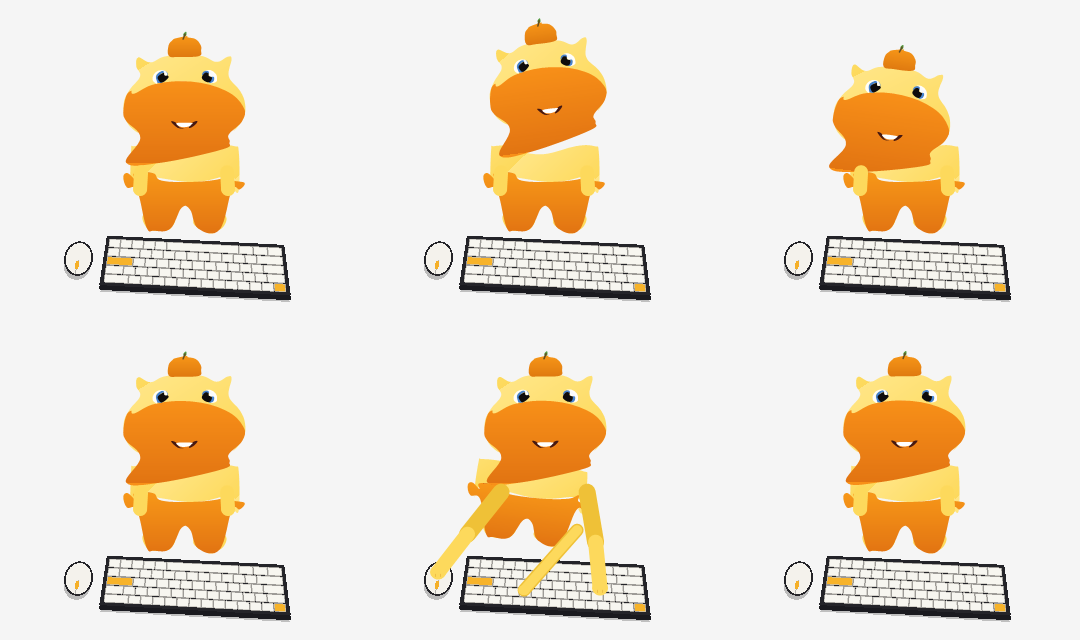
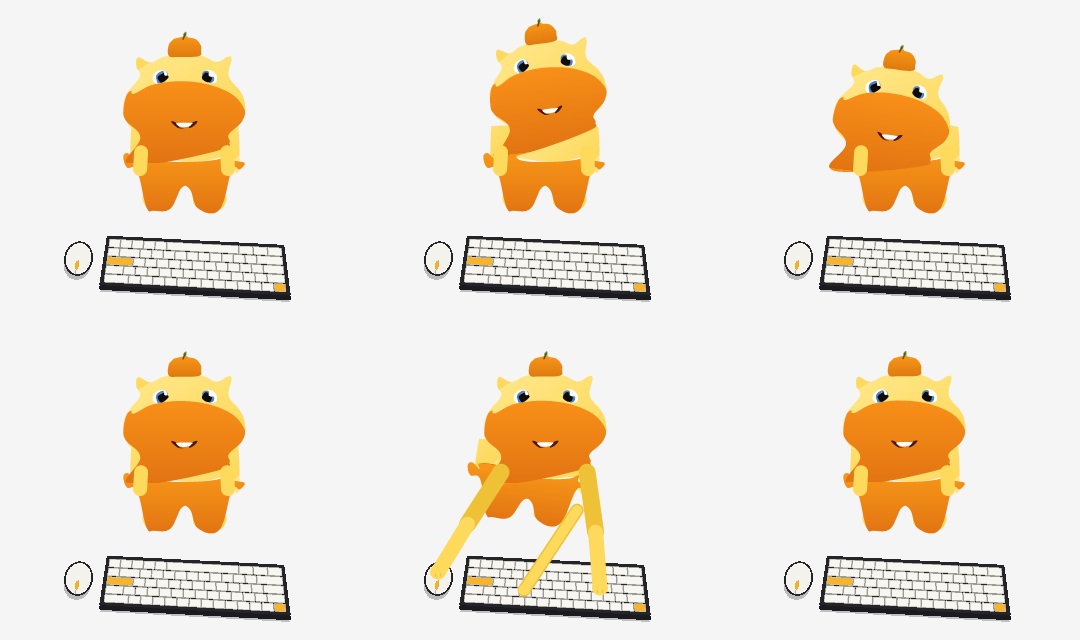
fix(lulu): tuck torso under traced muzzle to remove body gap

diff --git a/windows/src/CapybaraRenderer.hpp b/windows/src/CapybaraRenderer.hpp
@@ -32,7 +32,8 @@ public:
         g.SetPixelOffsetMode(PixelOffsetModeHighQuality);
         g.SetTextRenderingHint(TextRenderingHintAntiAliasGridFit);
         const float cx = CatPhysics::SeatAnchor.x + p.bodyShiftX.value;
-        const float bodyY = 185.0f;
+        // Keep the traced torso tucked behind the lower muzzle; the source has no neck seam.
+        const float bodyY = 165.0f;
         const float breath = std::sin(p.time * 2.1f) * 1.0f;
         const Pt head{cx + p.bodyTilt.value * 8.0f + p.headYaw.value * 2.5f,
                       105.0f + p.headOffsetY.value + p.headPitch.value * 2.0f + breath};
@@ -107,6 +108,7 @@ private:
         g.TranslateTransform(cx - 95.0f, bodyY - 157.0f);
         g.RotateTransform(p.bodyTilt.value * RadToDeg);
         g.ScaleTransform(1.0f + (1.0f-p.bodySquash.value)*0.20f, p.bodySquash.value);
+
         gradientLayer(g, luluBodyYellowPolygons(), PointF(75,128), PointF(120,176), furLight(), fur());
         fillLayer(g, luluLegsPolygons(), fur());
         gradientLayer(g, luluShortsPolygons(), PointF(95,145), PointF(95,205), hat(), orangeDark());
